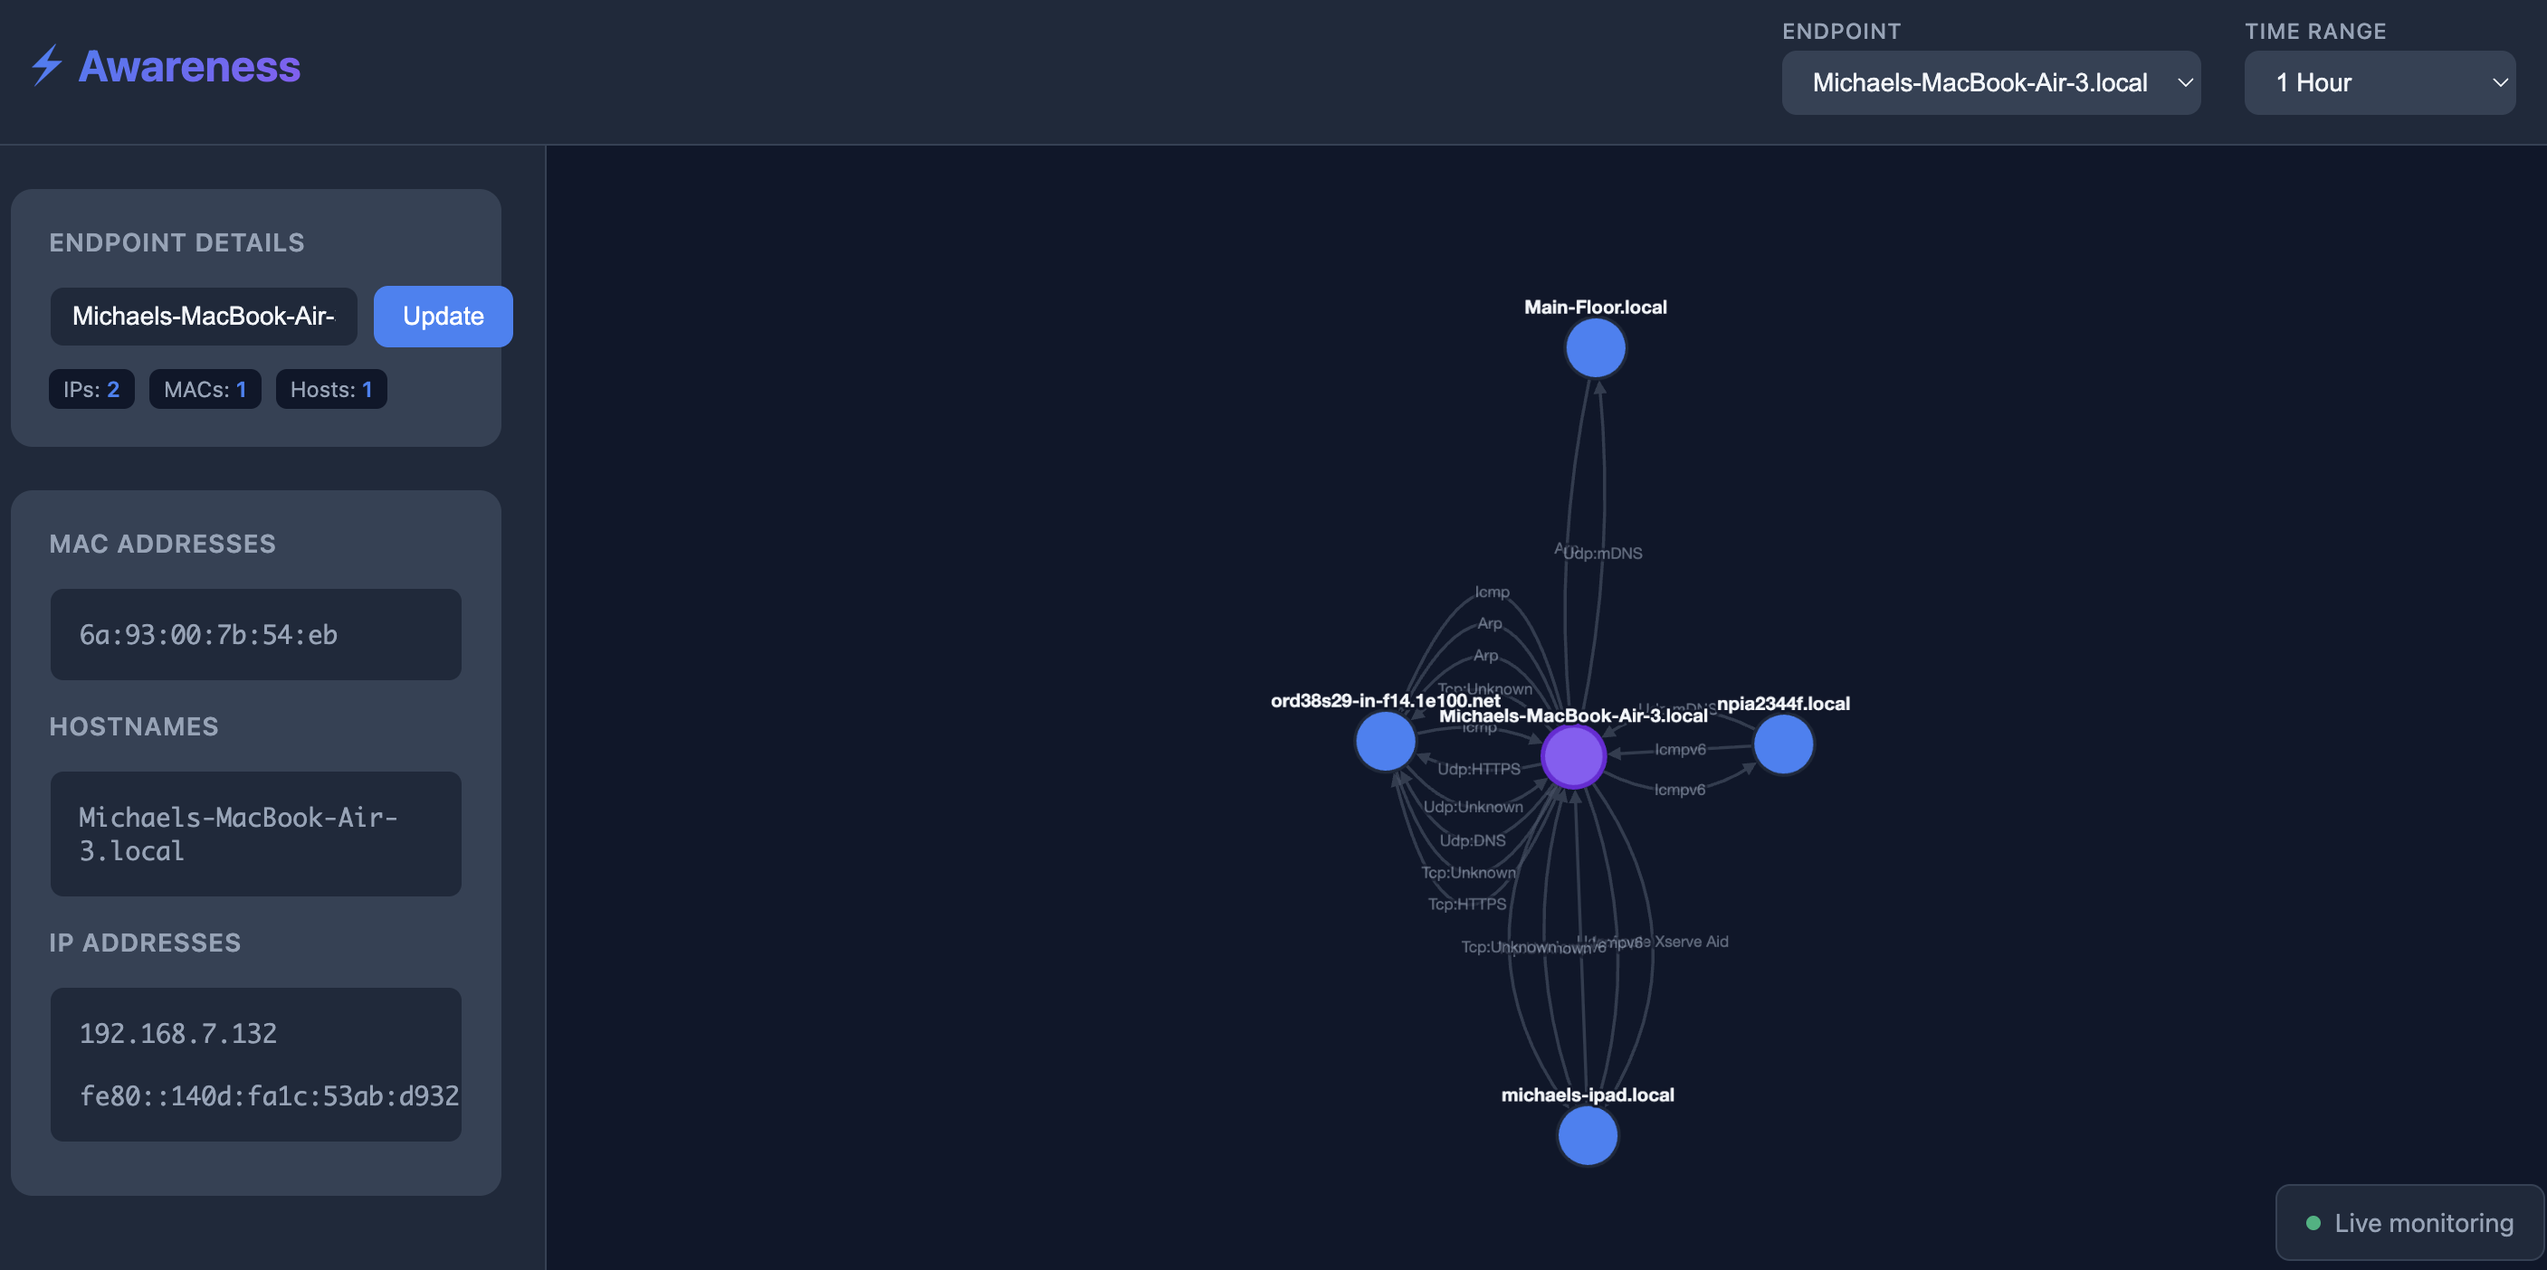
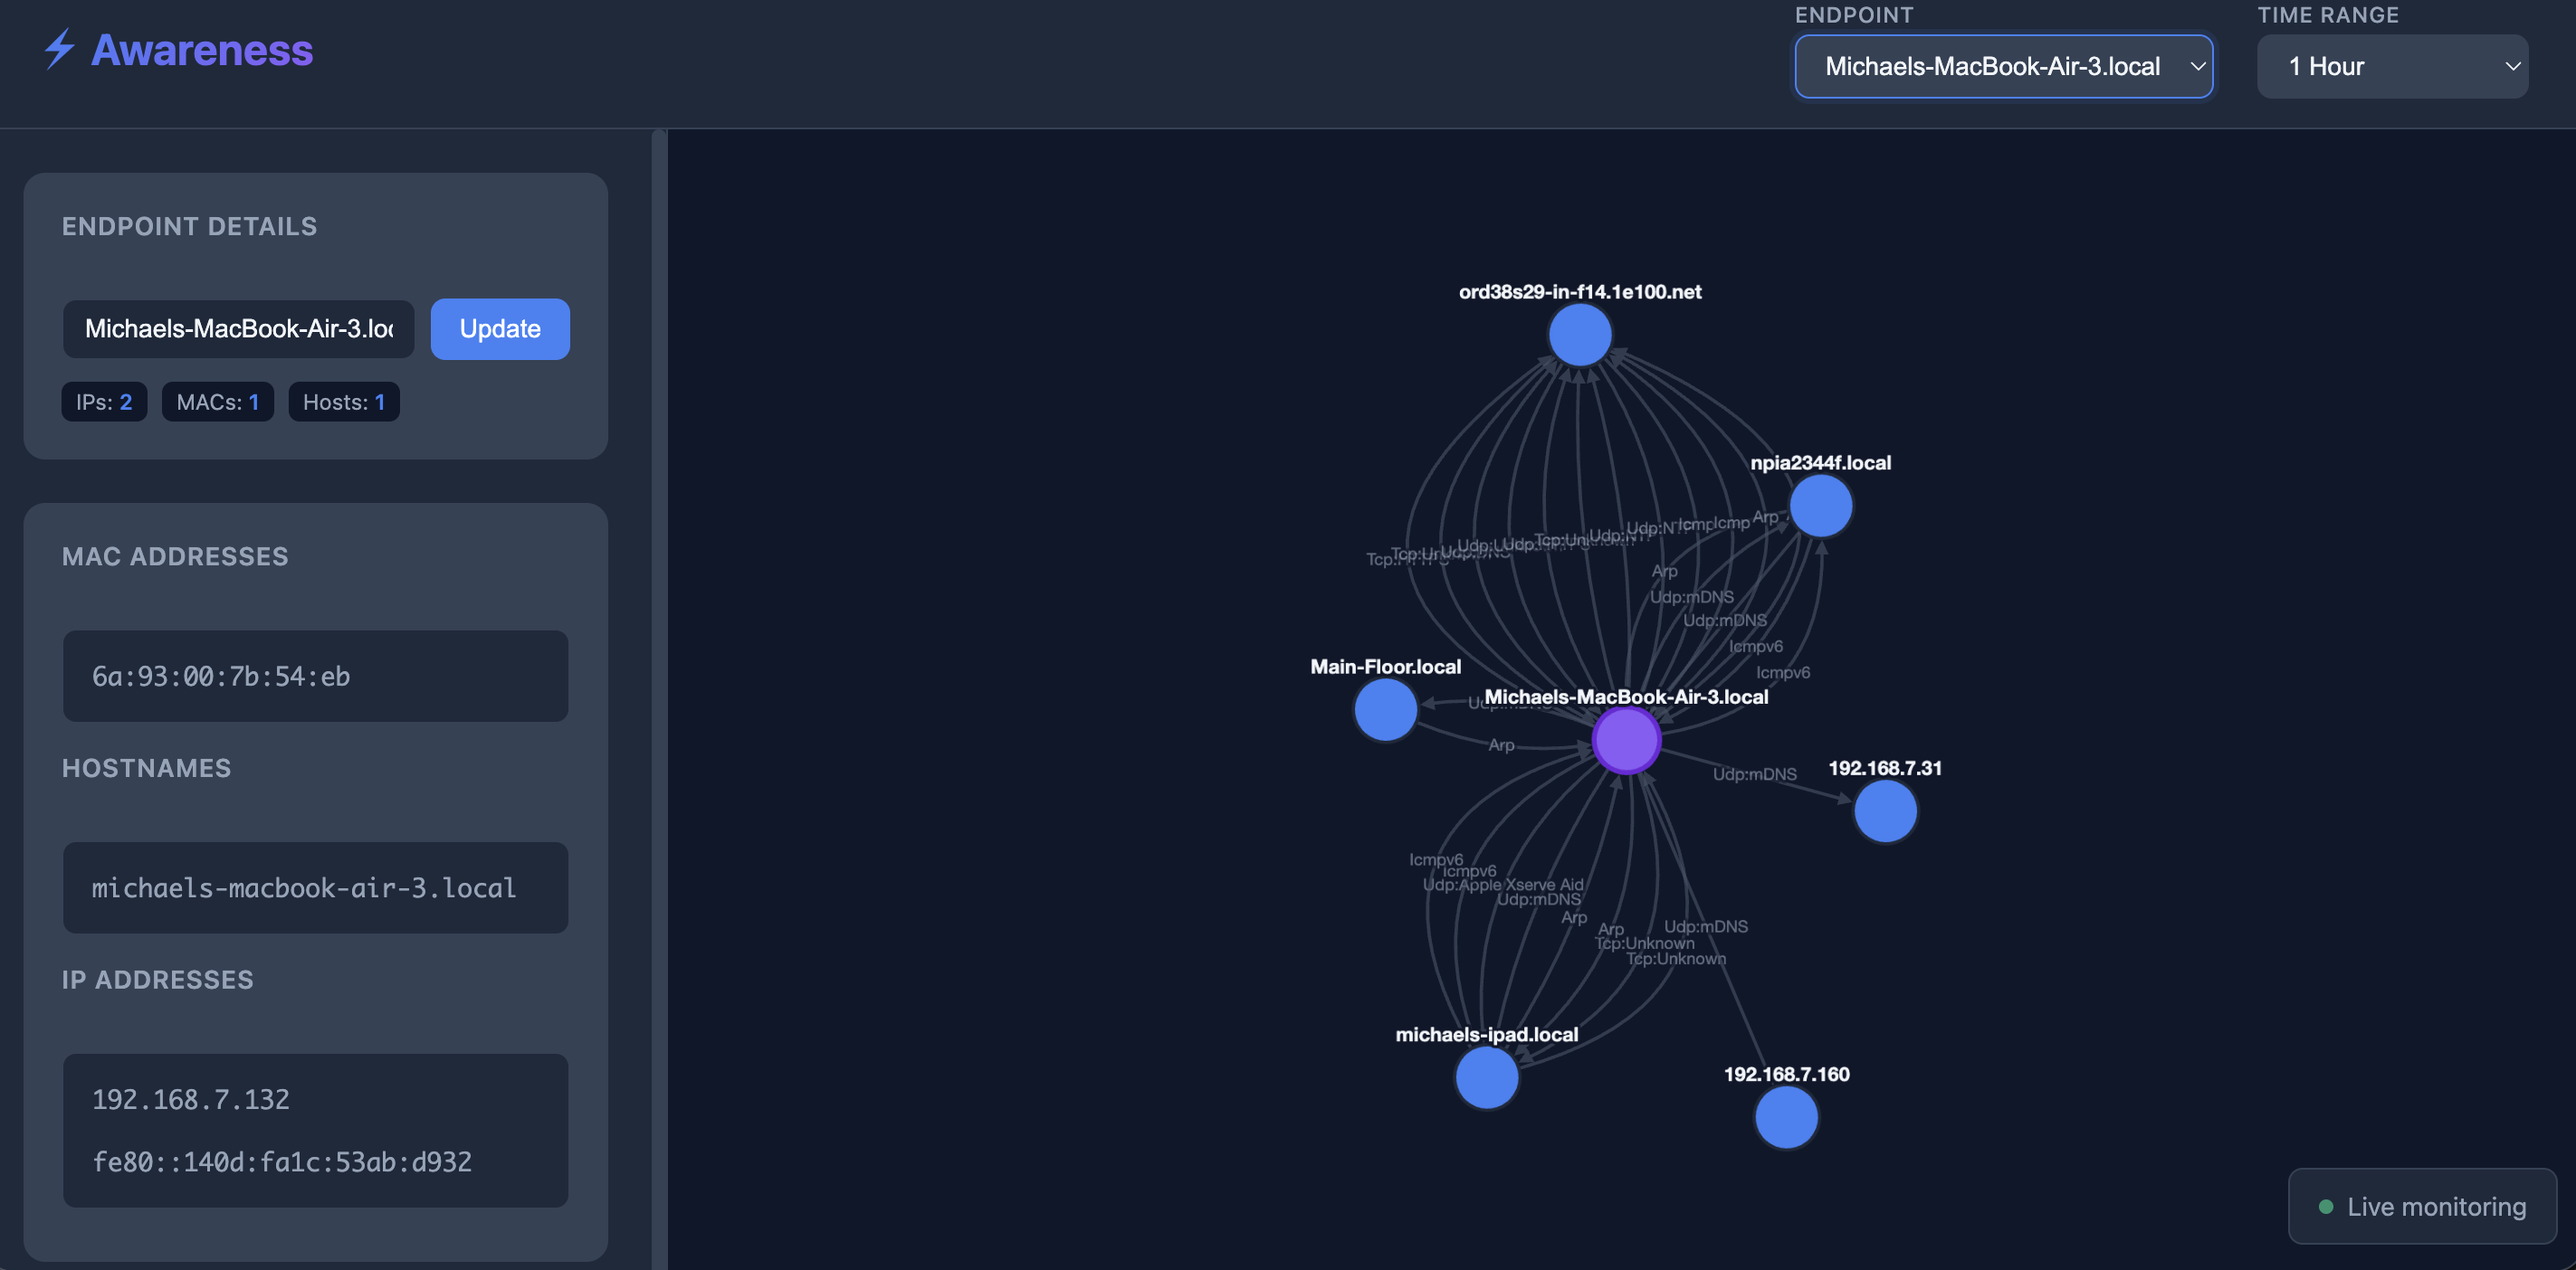
fix: Ui fixes

diff --git a/templates/index.html b/templates/index.html
@@ -104,7 +104,7 @@
 
     /* Sidebar */
     .sidebar {
-      width: 320px;
+      width: 380px;
       background: var(--bg-secondary);
       border-right: 1px solid var(--border-color);
       padding: 1.5rem;
@@ -127,7 +127,7 @@
       text-transform: uppercase;
       letter-spacing: 0.5px;
       color: var(--text-secondary);
-      margin-bottom: 1rem;
+      margin-bottom: 2rem;
     }
 
     .input-group {

diff --git a/src/web/mod.rs b/src/web/mod.rs
@@ -97,10 +97,12 @@ fn get_all_ips_macs_and_hostnames_from_single_hostname(
     for (ip, mac, hostname) in rows.flatten() {
         ips.insert(ip.unwrap_or_default());
         macs.insert(mac.unwrap_or_default());
-        if ips.contains(&hostname.clone().unwrap_or_default()) {
+        let hostname_str = hostname.unwrap_or_default();
+        if ips.contains(&hostname_str) {
             continue;
         }
-        hostnames.insert(hostname.unwrap_or_default());
+        // Normalize to lowercase to prevent case-sensitive duplicates
+        hostnames.insert(hostname_str.to_lowercase());
     }
 
     let mut ips: Vec<String> = ips.into_iter().filter(|s| !s.is_empty()).collect();
